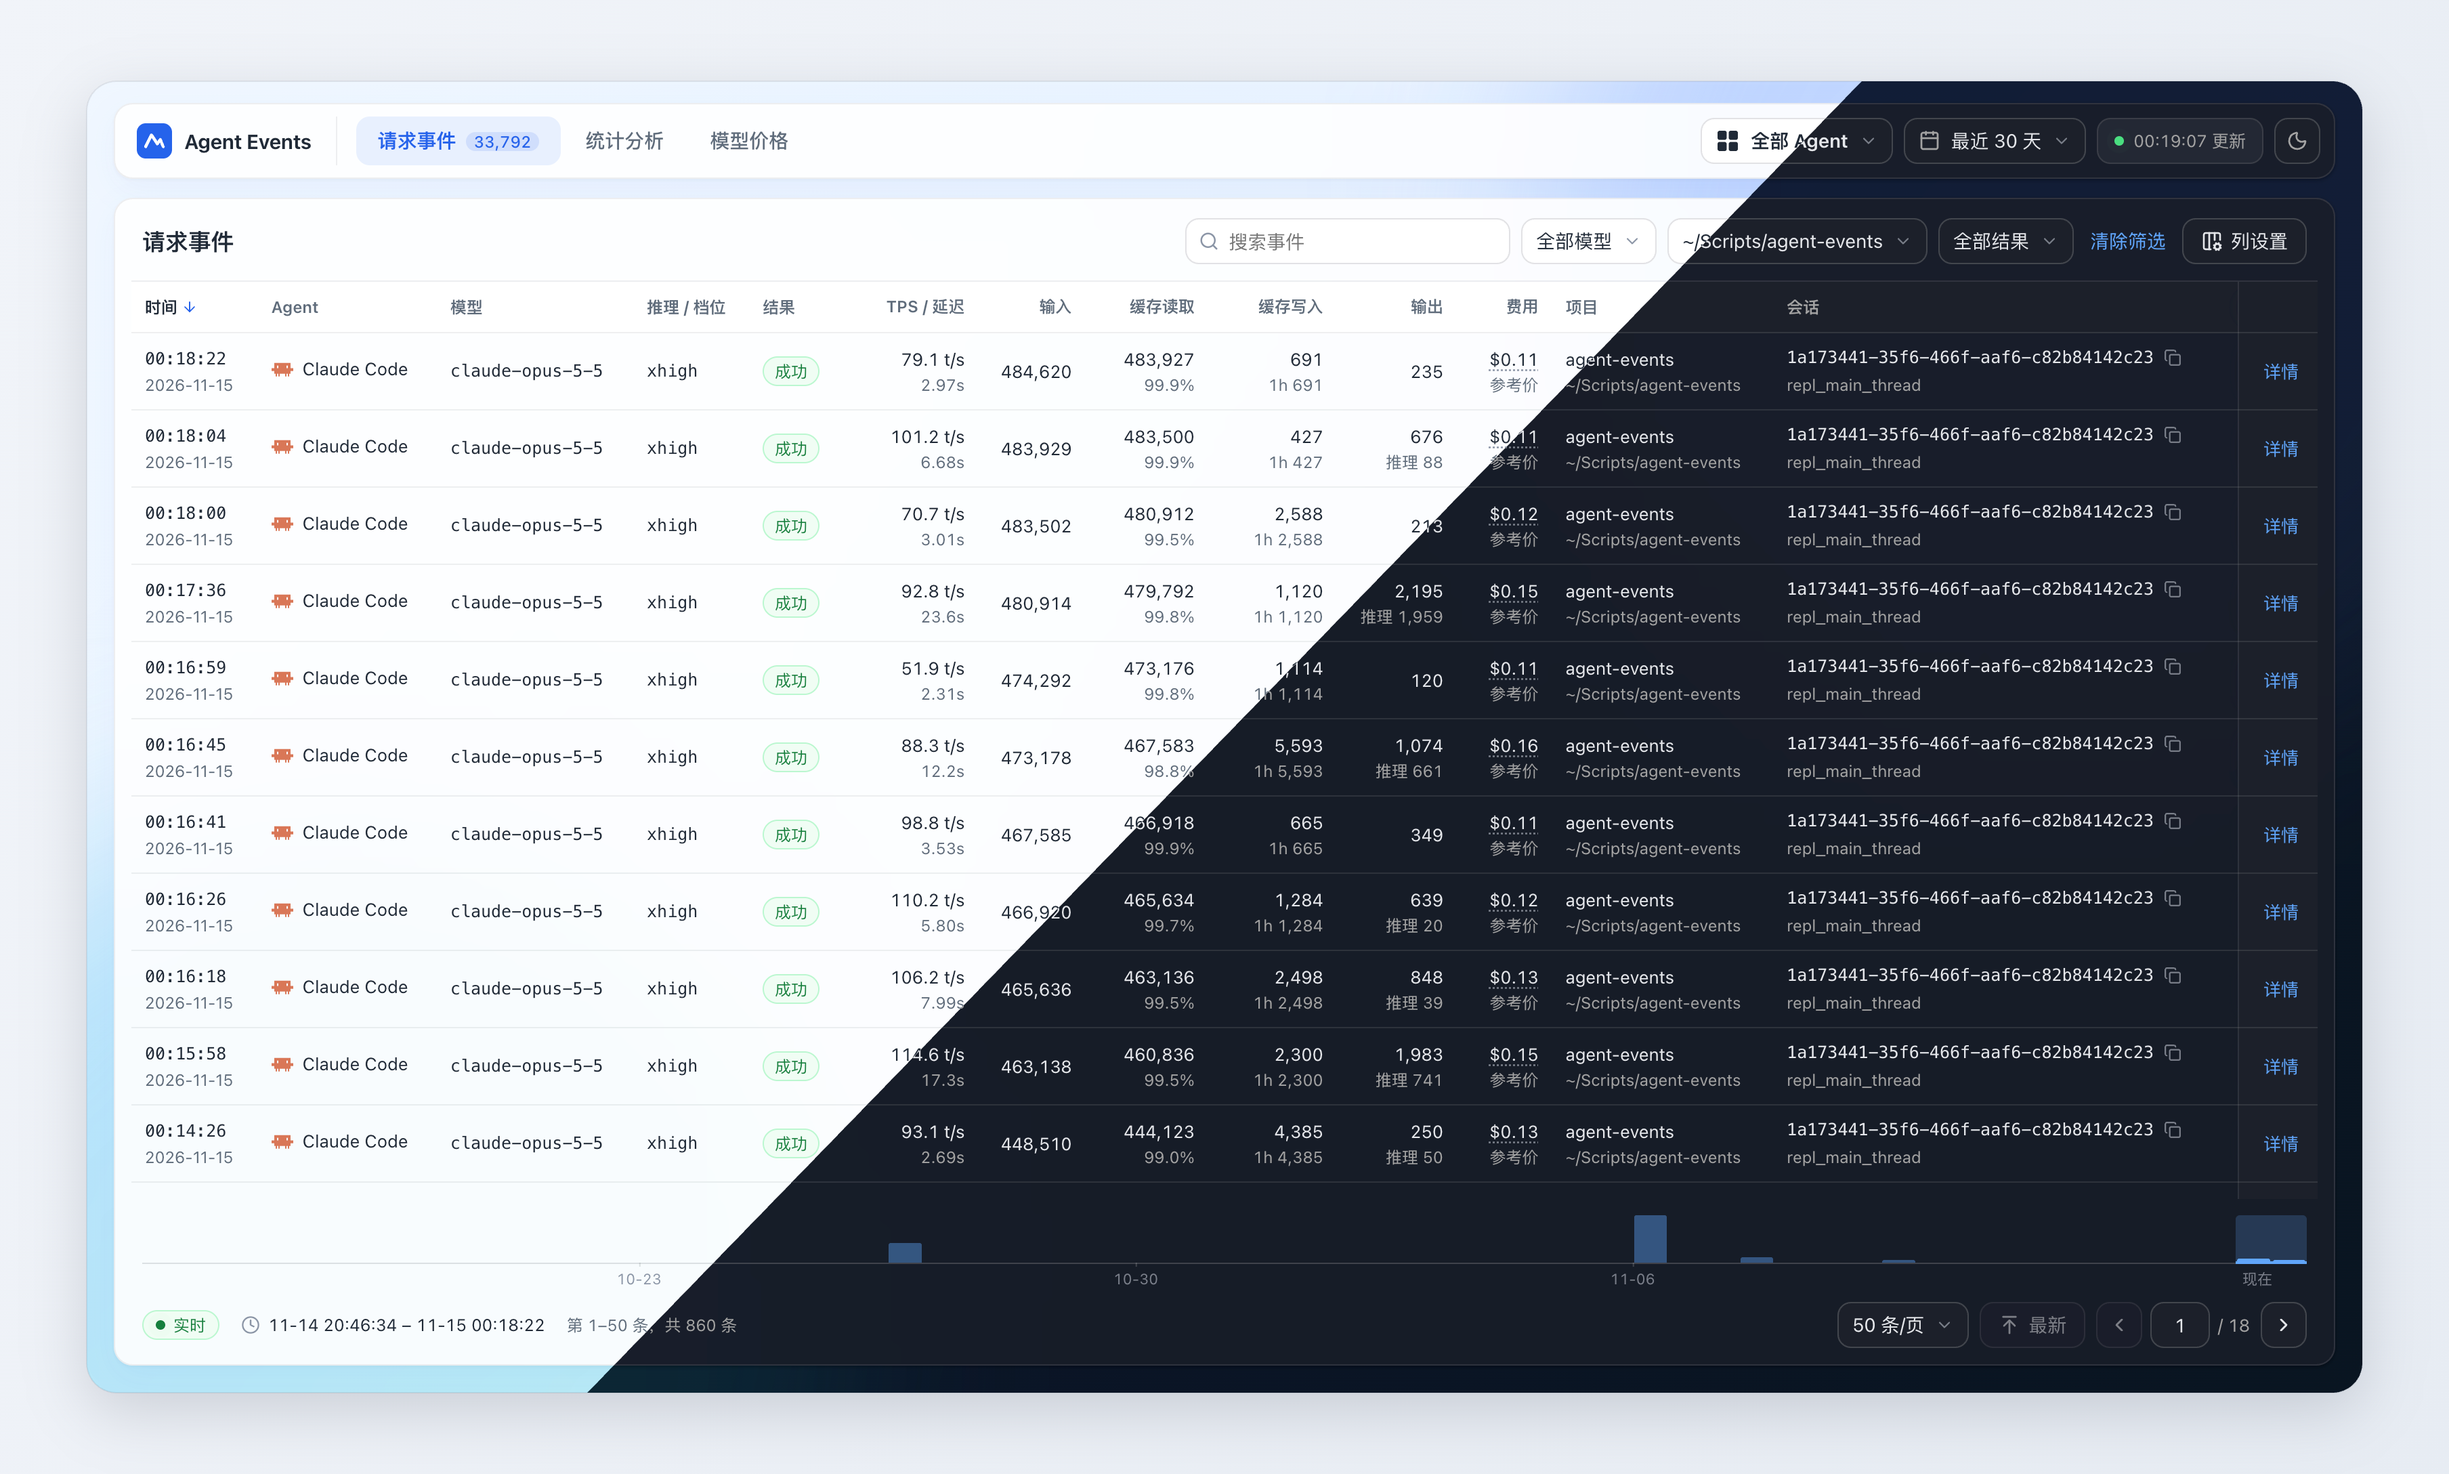
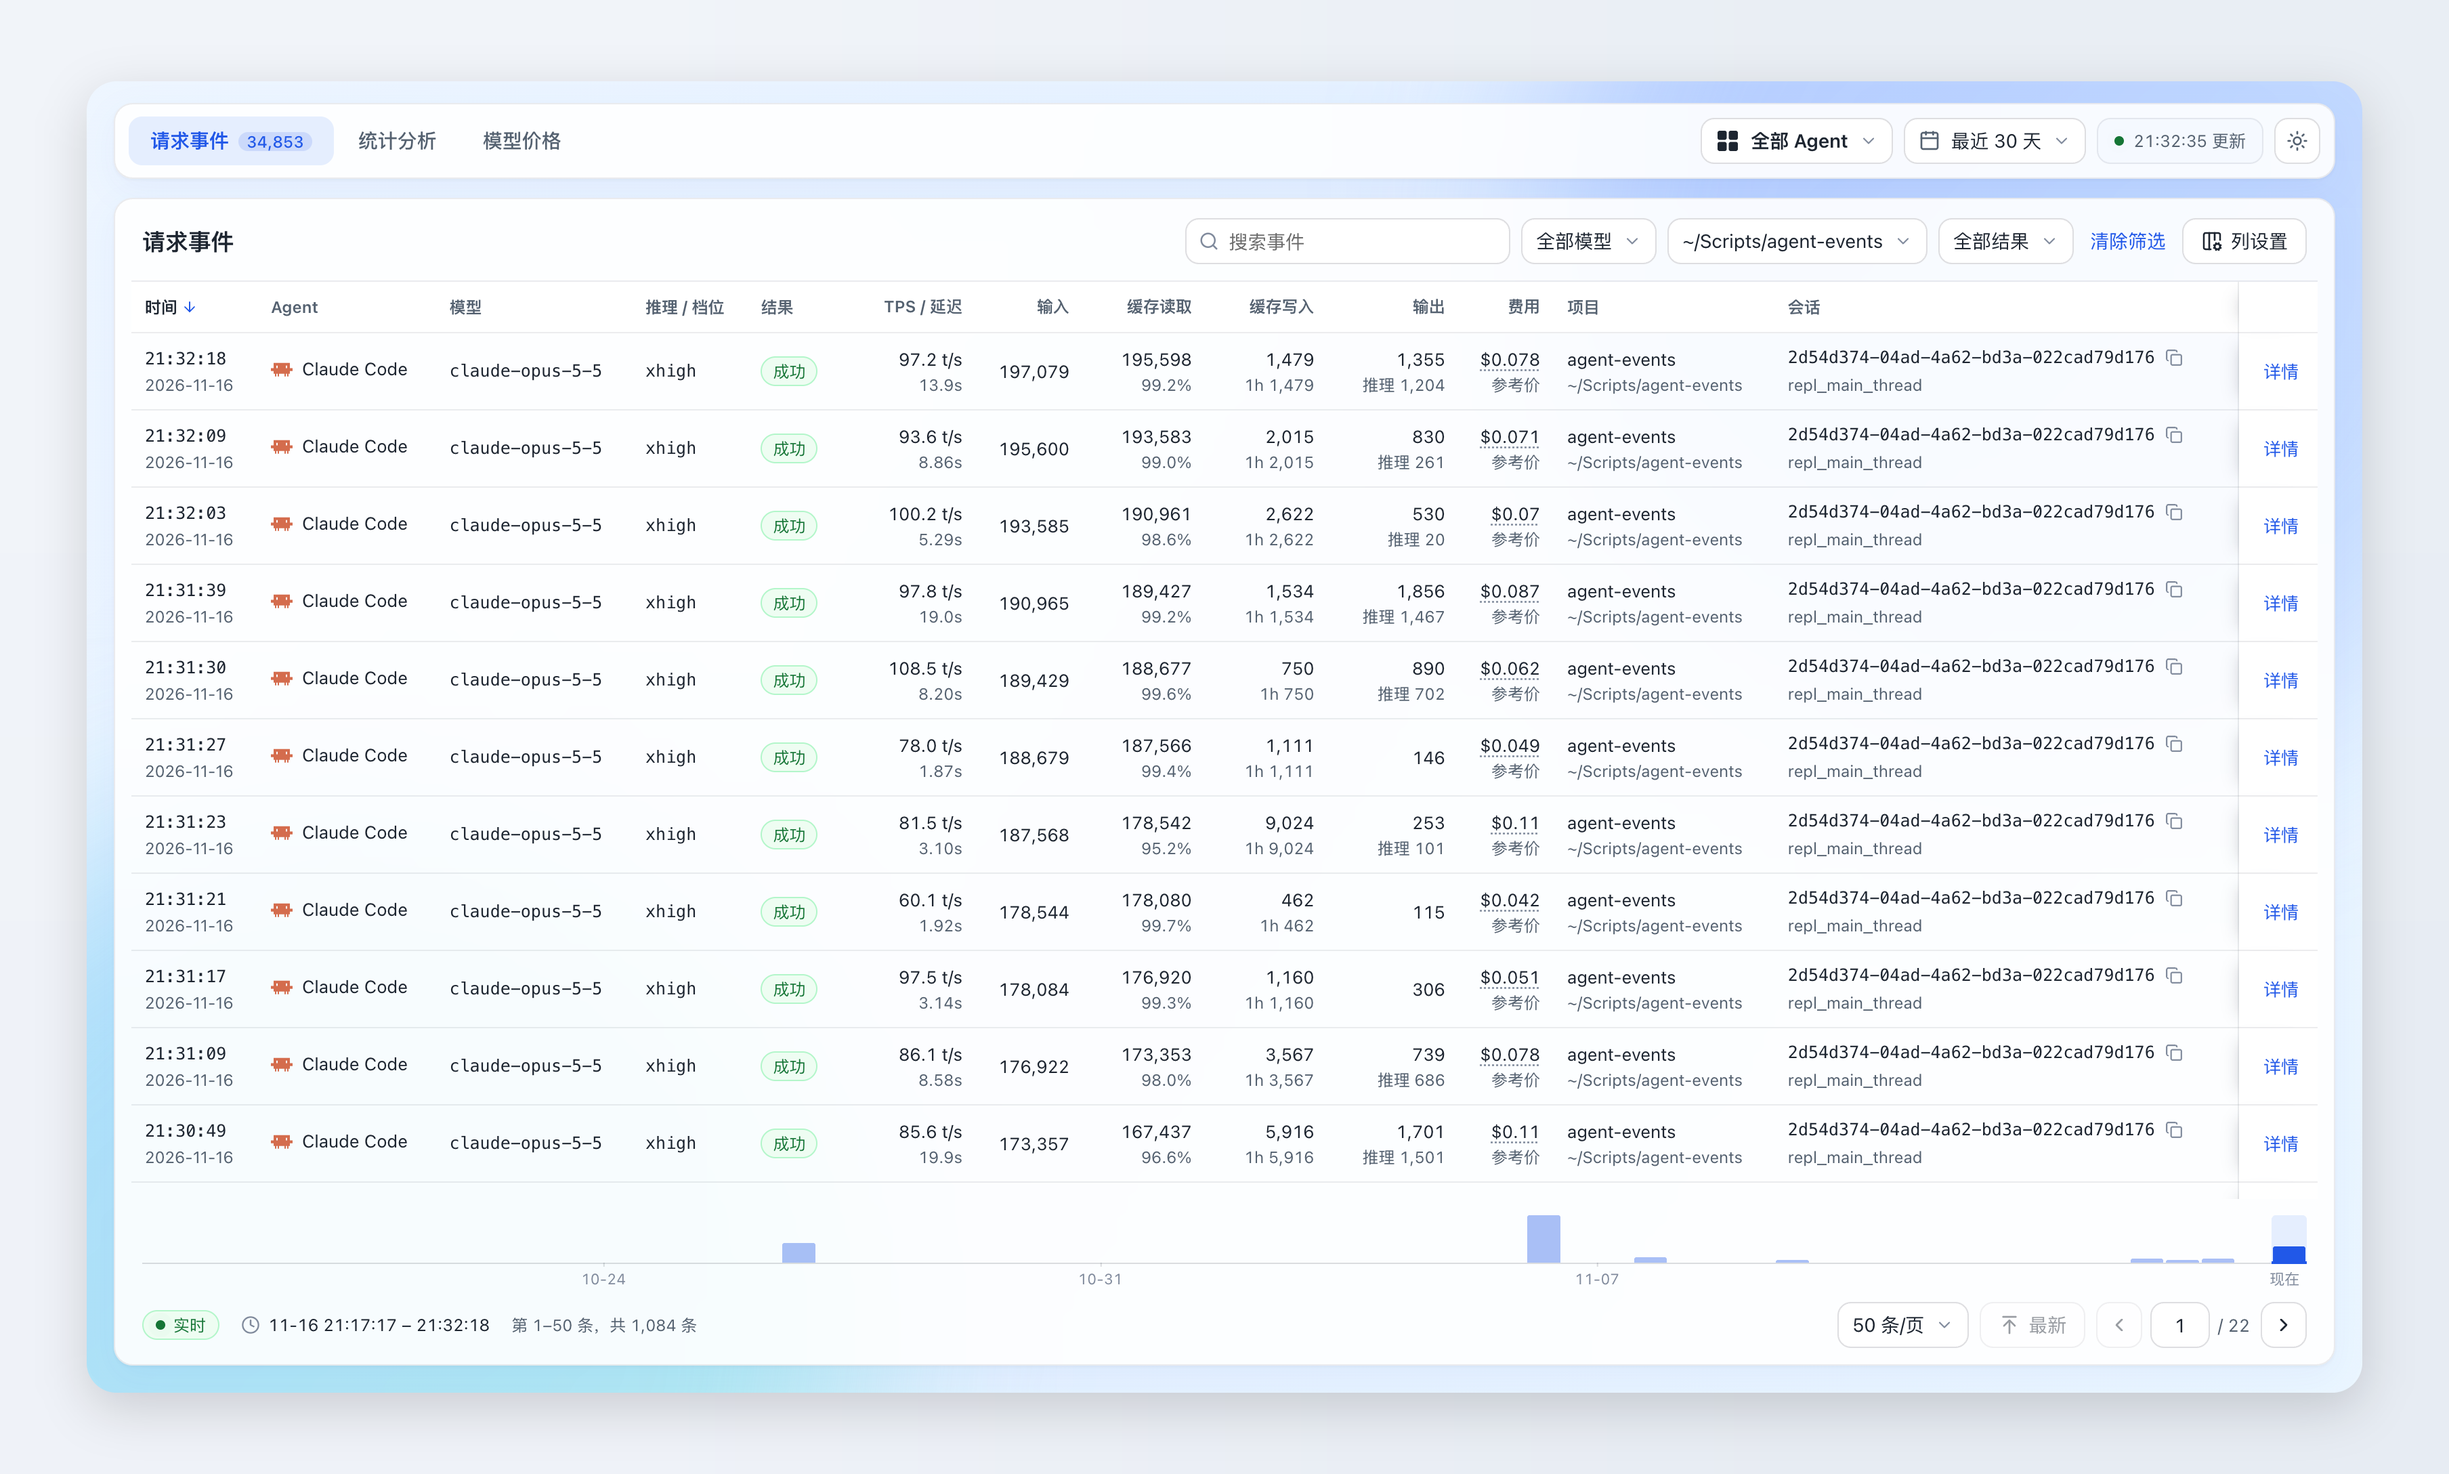
docs: refresh README screenshot and intro

diff --git a/README.md b/README.md
@@ -2,9 +2,9 @@
 
 在浏览器中查看本机 AI 编程助手的每一次模型请求：Token 用量、费用、速度和失败原因。
 
-![agent-events 项目最近 30 天的请求事件，浅色与深色主题](docs/images/screenshot.png)
+![agent-events 项目最近 30 天的请求事件](docs/images/screenshot.png)
 
-支持 Claude Code、Codex、OpenCode、Kilo Code、Antigravity、Gemini CLI、Qwen Code、GitHub Copilot CLI、Amp、Codebuff、Factory Droid、Goose、Grok Build、Hermes、Kimi、OpenClaw、Pi 和 ZCode。只读取本机日志，请求数据不会上传。
+支持 Claude Code、Codex、OpenCode、Kilo Code、Antigravity、Gemini CLI、Qwen Code、GitHub Copilot CLI、Amp、Codebuff、Factory Droid、Goose、Grok Build、Hermes、Kimi、OpenClaw、Pi 和 ZCode。
 
 ## 安装
 
